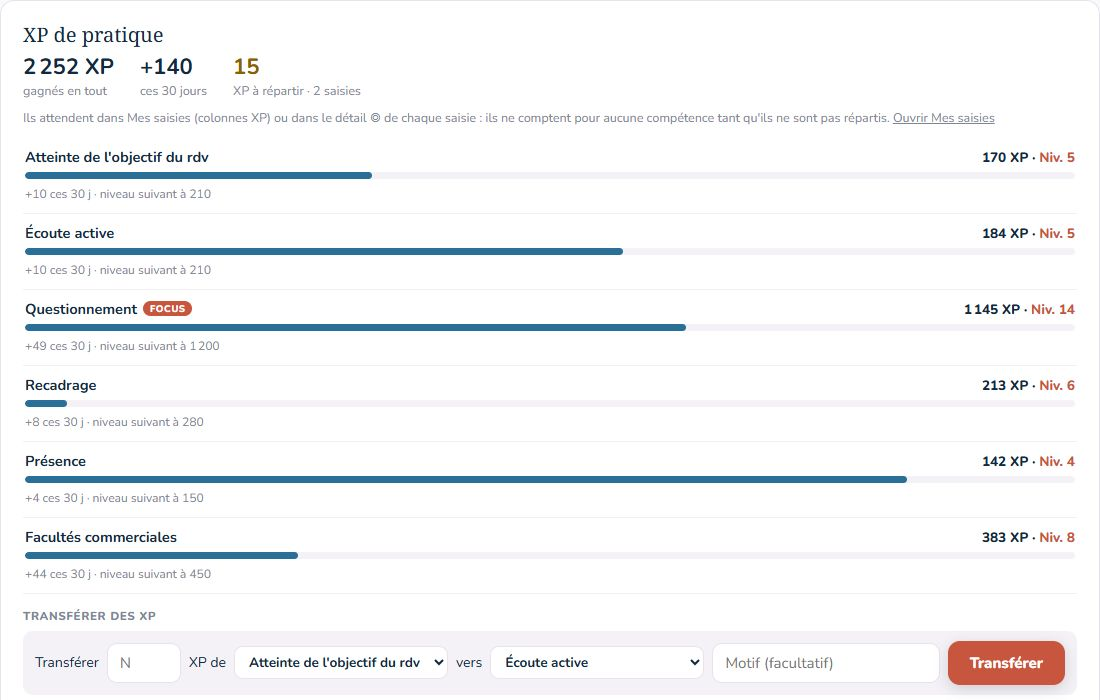
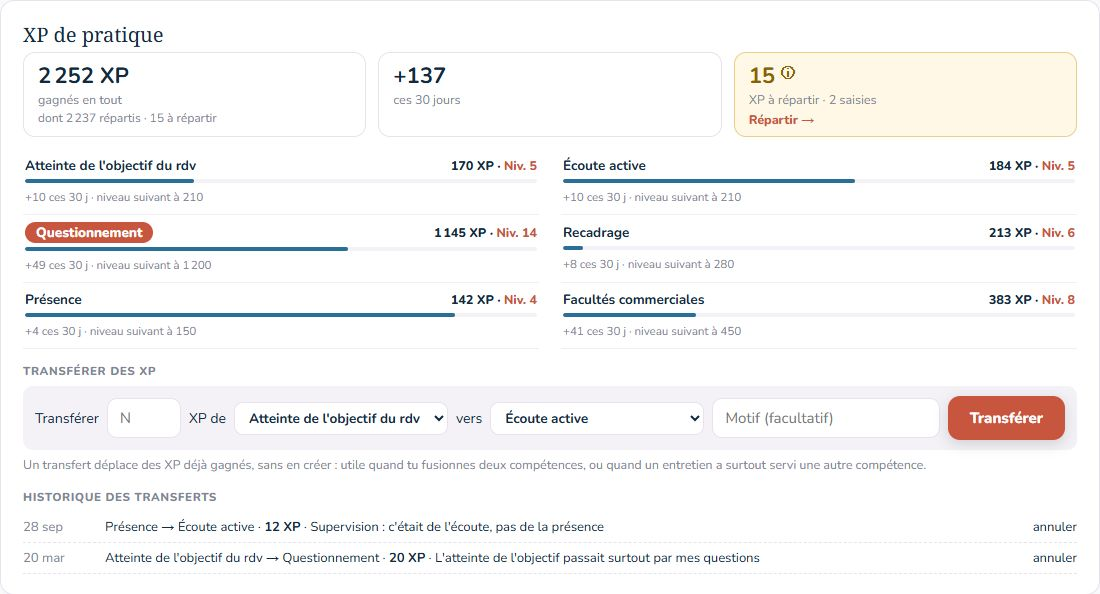
Site : captures refaites pour l'interface 3.2.6
- practice, xp, coach, funnel (entonnoir horizontal), dash, log en FR et EN
- captures.py : practice sans hauteur fixe (la carte était rognée à 509 px)
- pipeline et reseau inchangées (identiques octet pour octet)

diff --git a/tools/captures.py b/tools/captures.py
@@ -47,7 +47,7 @@ CAPTURES = {
     "dash":     dict(shot="dash", vw=1392, vh=758, sel="main", w=1300, h=758),
     "log":      dict(shot="log", vw=1300, vh=1000, sel="#ov .modal", w=None, h=610),
     "coach":    dict(shot="coach", vw=1300, vh=1100, sel="#coFiche", w=1200, h=1012),
-    "practice": dict(shot="practice", vw=1300, vh=900, sel="#pd > .card", w=1100, h=509),
+    "practice": dict(shot="practice", vw=1300, vh=900, sel="#pd > .card", w=1100, h=None, hmax=700),
     "pipeline": dict(shot="pipeline", vw=1392, vh=900, sel="#ppPipe", w=900, h=491, fit=False),
     "funnel":   dict(shot="funnel", vw=2100, vh=900, sel="#bizBox", w=None, h=None, hmax=700),
     "reseau":   dict(shot="reseau", vw=1400, vh=900, sel="#reseau .netcard", w=None, h=None, hmax=760),
